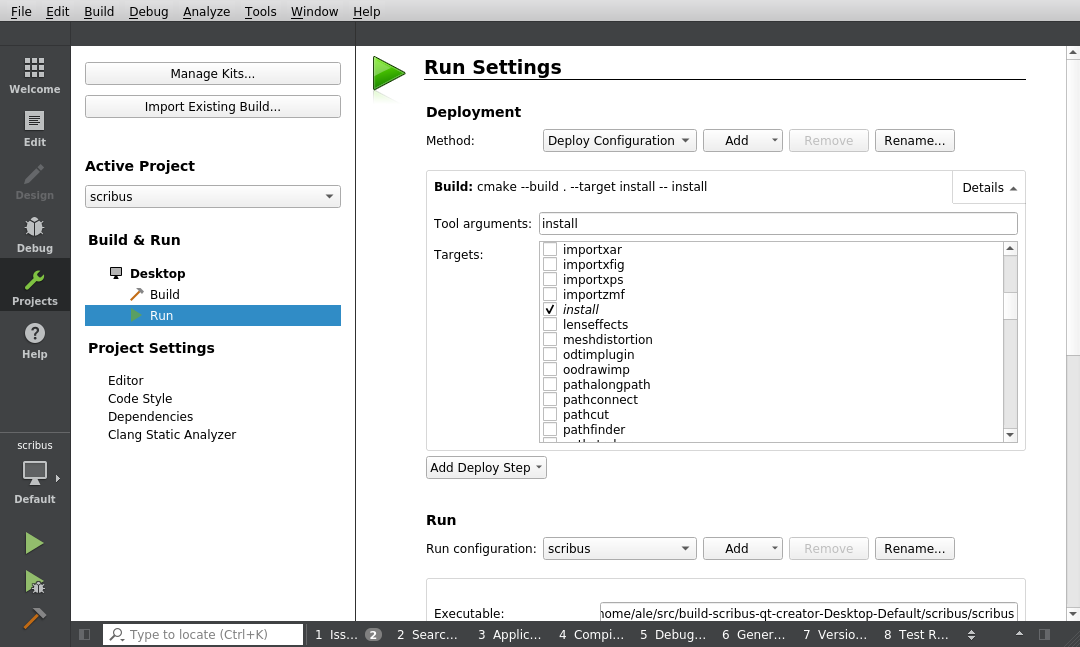
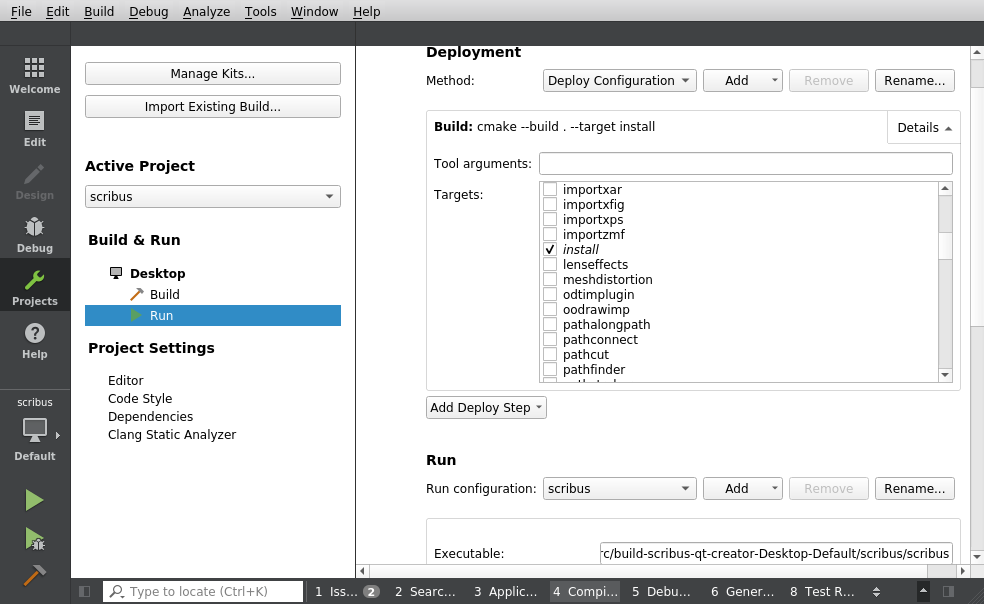
fix the deploy step and tell the user to save the cmake configuration changes

Changed region(s): [[0.0, 0.0, 1.0, 1.0], [0.3963, 0.7748, 0.9756, 0.8642], [0.3963, 0.3874, 0.4573, 0.4172]]

diff --git a/content/qt-creator/qt-creator.md b/content/qt-creator/qt-creator.md
@@ -30,7 +30,7 @@ Once Qt Creator has built Scribus, you can run it with the "Run" command.
 
 Before being able to run Scribs, you need to install it (otherwise it won't find its resources). In order to install it, you need to add a "Deploy Step" to the Deployment configuration of the Run settings.
 
-In the "Add deploy step" action, pick the "Build" option and the `install` "Tool argument" for the "install" target: 
+In the "Add deploy step" action, pick the "Build" option and make sure that the `install` "install" target is checked:
 
 ![Set the `CMAKE_INSTALL_PREFIX` ](images/qt-creator-cmake-install-step.png)
 
@@ -42,5 +42,7 @@ By default, Qt Creator installs Scribus in `/usr/local`, which on most systems n
 You can change the target in the "Project"'s "Build and Run" configuration:
 
 ![Set the `CMAKE_INSTALL_PREFIX` ](images/qt-creator-cmake-install-prefix.png)
+
+Then click the "Apply Configuration Changes" button below the list of the options.
 
 Personally, I mostly use a `bin/scribus` directory in my home, but you can also use a `bin` directory in the build directory created by Qt Creator (`~/src/build-scribus-qt-creator-Desktop-Default/bin`).
